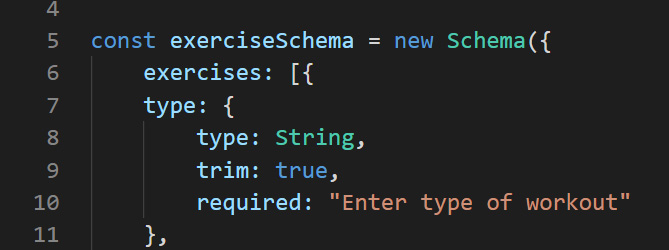
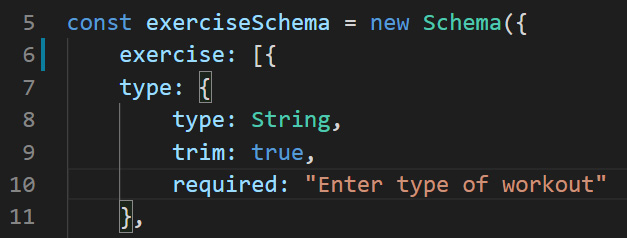
fixed readme and image

diff --git a/README.md b/README.md
@@ -13,7 +13,7 @@ At first, I thought I knew routes. This assignment showed I didn't, well the Mon
 ![OMG](seeders/schema.jpg)
 ![OMG](seeders/workoutjs.jpg)
 
-I ask Kerwin, why am I not getting the logging information. I was going to rip my hair on what he said. Look at line 12 on the workout.js, then look at the name of your schema. I was missing a "s" on the schema name "exercise".
+I ask Kerwin, why am I not getting the logging information. I was going to rip my hair on what he said. Look at line 12 on the workout.js, then look at the name of your schema. I was missing a "s" on the array name "exercise".
 
 ## Getting Started
 
